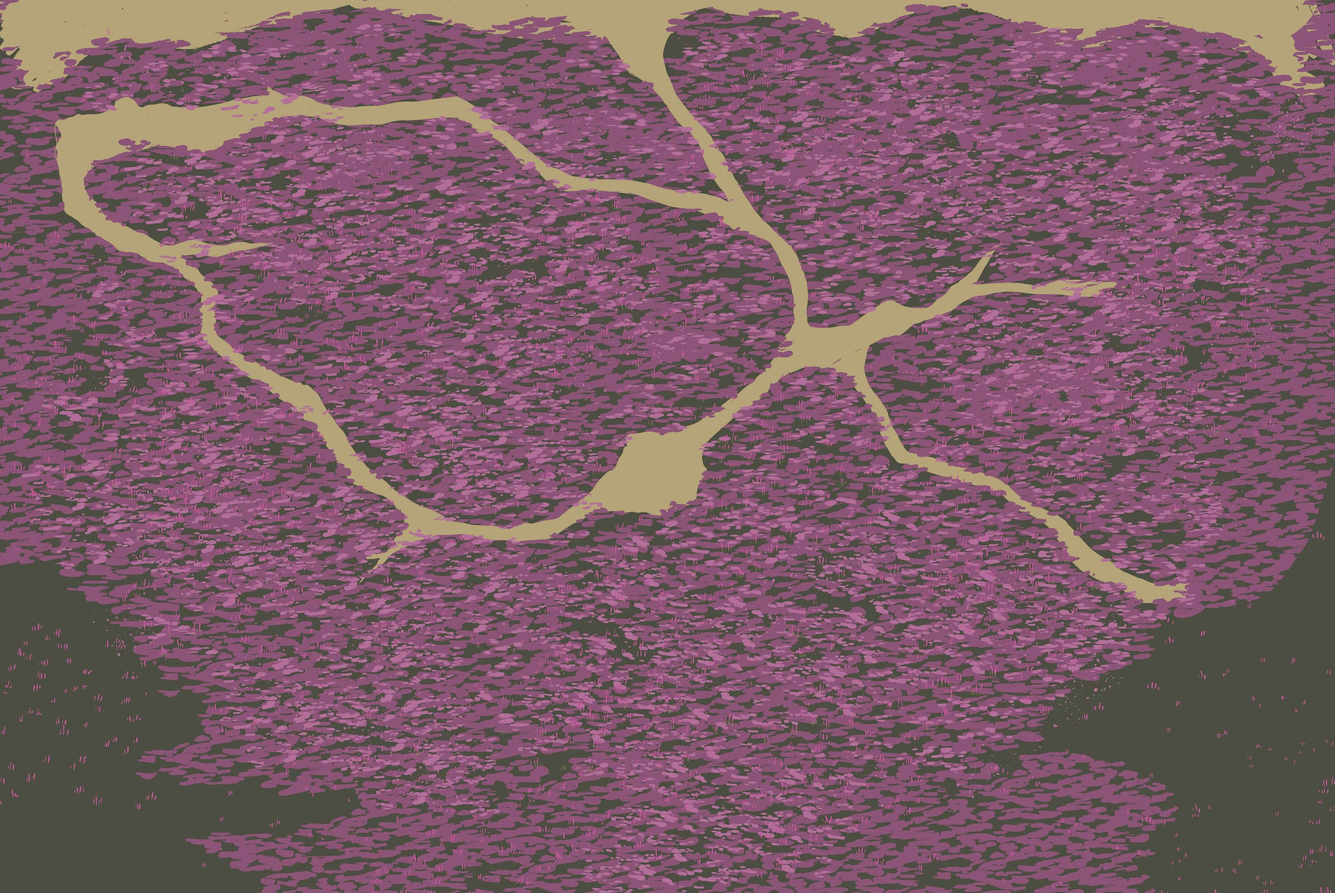
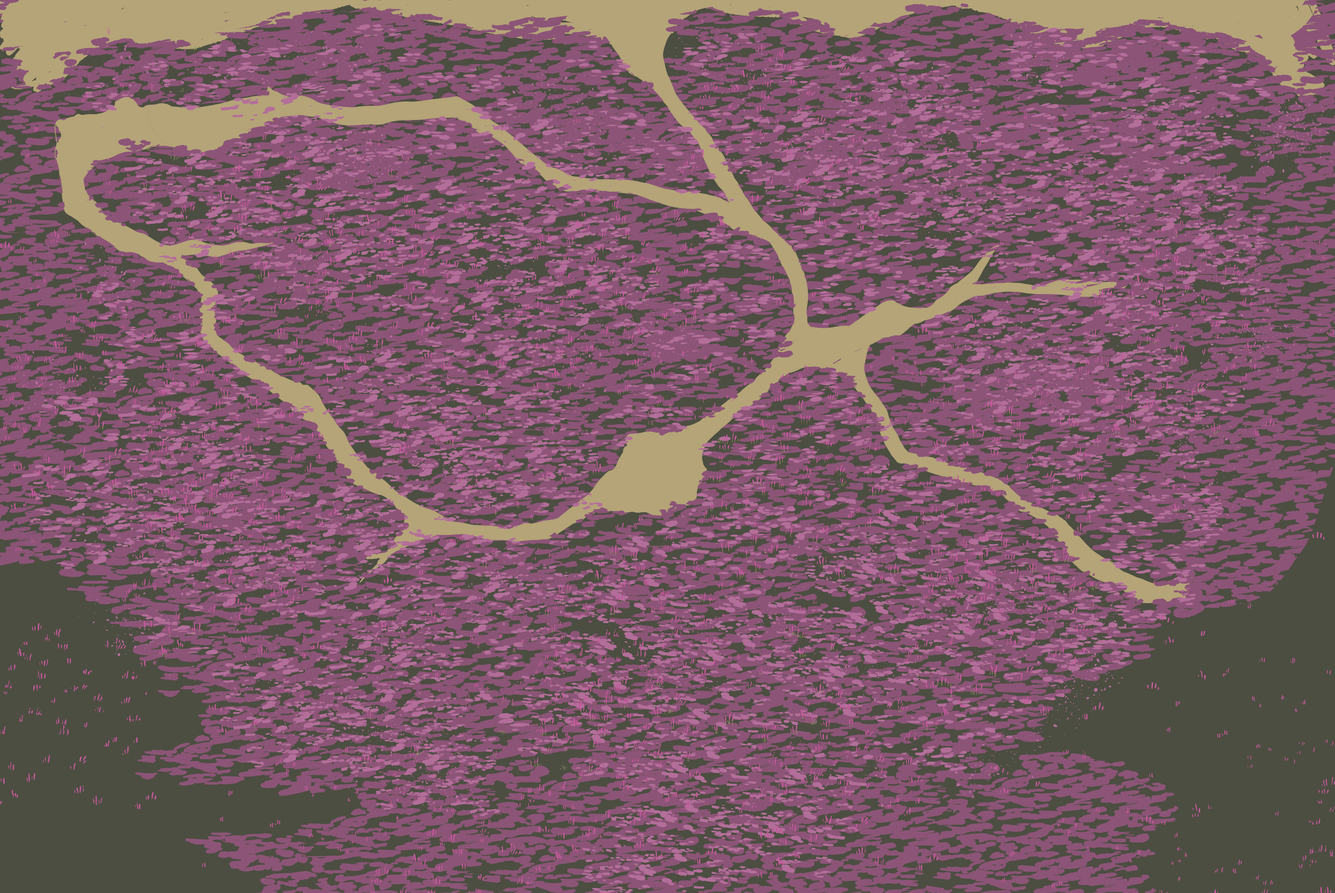
Higher quality background image and a few code cleanups

Changed region(s): [[0.9976, 0.8662, 1.0, 0.8971]]

diff --git a/js/scenes/Moor.js b/js/scenes/Moor.js
@@ -8,8 +8,6 @@ class Moor extends Phaser.Scene {
         sceneWidth: 3721,
         sceneHeight: 2489
     }
-    
-    
 
     // Loads all assets before scene starts
     preload() {
@@ -90,7 +88,6 @@ class Moor extends Phaser.Scene {
             x: this.sceneConfig.sceneWidth/2,
             y: this.sceneConfig.sceneHeight/2,
             lifespan: 10000,
-            //speed: { min: Math.random()*10, max: Math.random()*20 },
             gravityY: 0,
             scale: { start: 0, end: .5 },
             blendMode: 'ADD',
@@ -98,14 +95,13 @@ class Moor extends Phaser.Scene {
             frequency: 50,
             emitZone: { type: 'random', source: emissionCircle },
             maxParticles: 300,
-            particleClass: FireflyParticles
+            particleClass: FireflyParticles // custom particle class definition in js/components/fireflyParticles.js
         });
 
         this.fireflyParticles.createEmitter({
             x: this.sceneConfig.sceneWidth/2+200,
             y: this.sceneConfig.sceneHeight - 800,
             lifespan: 10000,
-            //speed: { min: Math.random()*10, max: Math.random()*20 },
             gravityY: 0,
             scale: { start: 0, end: .5 },
             blendMode: 'ADD',
@@ -118,7 +114,6 @@ class Moor extends Phaser.Scene {
     }
 
     update(time, delta) {
-        
 
         if(debug == true){
             if(this.debugPannel == null){
@@ -128,8 +123,6 @@ class Moor extends Phaser.Scene {
             this.debugPannel.innerHTML = "<b>DEBUG</b> <br>Player X Position: " + Math.round(this.player.x) + "<br>Player Y Position: " + Math.round(this.player.y);
 
         }
-
-        //this.movePlayer(.3 * delta);
 
         this.player.movePlayer(.3 * delta);
 
@@ -151,7 +144,6 @@ class Moor extends Phaser.Scene {
 /****** USEFUL FUNCTIONS ******/
 
 /*
-
 var randomX = Phaser.Math.Between(0, config.width);
 
 this.add.text(20, 20, "Text goes here", {

diff --git a/index.html b/index.html
@@ -44,8 +44,6 @@
     </div>
 
     <script type="text/javascript" src="/js/phaser.min.js"></script>
-    <!--<script type="text/javascript" src="/js/decomp.min.js"></script>-->
-
     <script type="text/javascript" src="/js/scenes/BootGame.js"></script>
     <script type="text/javascript" src="/js/scenes/Moor.js"></script>
     <!-- <script type="text/javascript" src="/js/components/npc.js"></script> -->

diff --git a/js/game.js b/js/game.js
@@ -1,4 +1,4 @@
-var debug = false;
+var debug = true;
 
 // Game configuration
 var config = {
